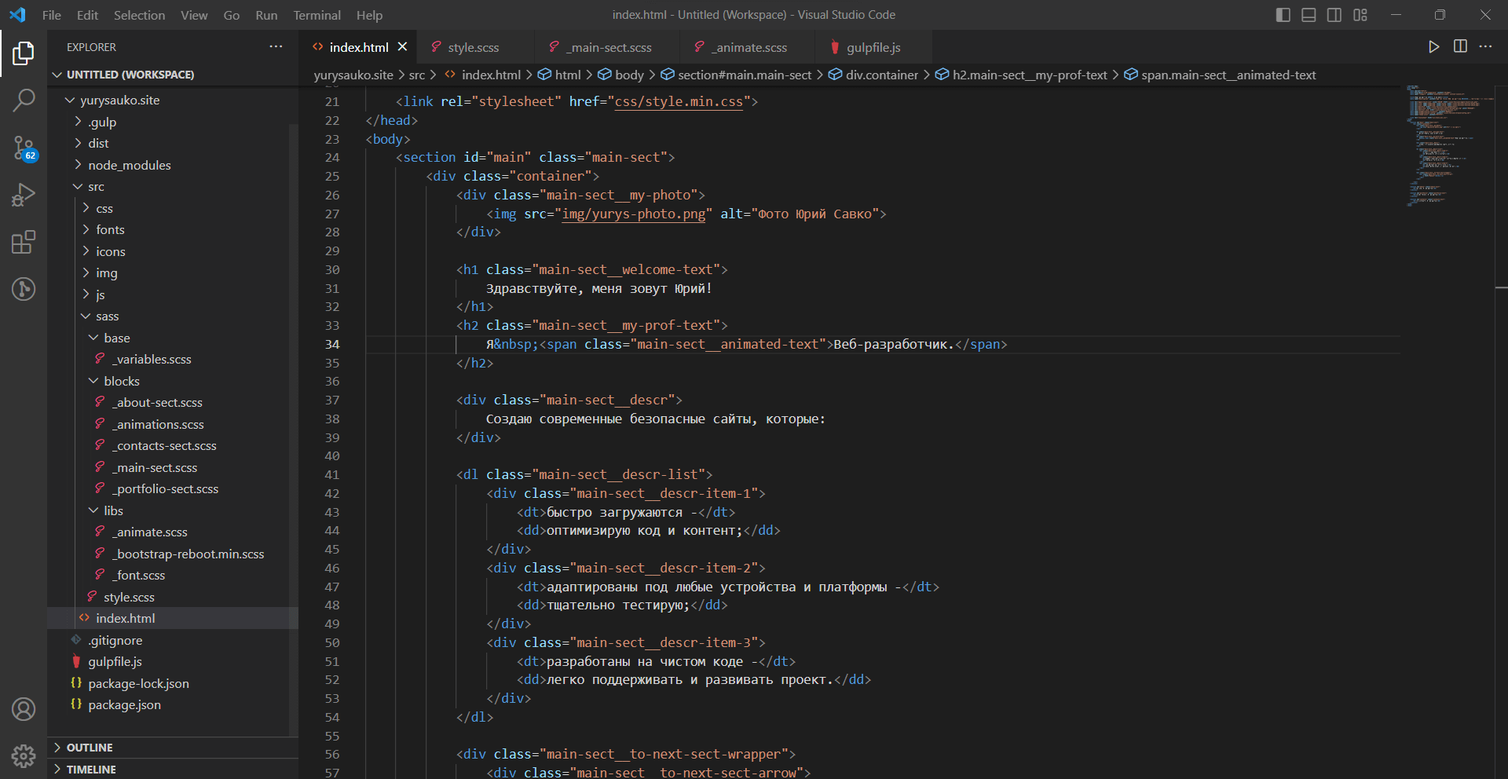
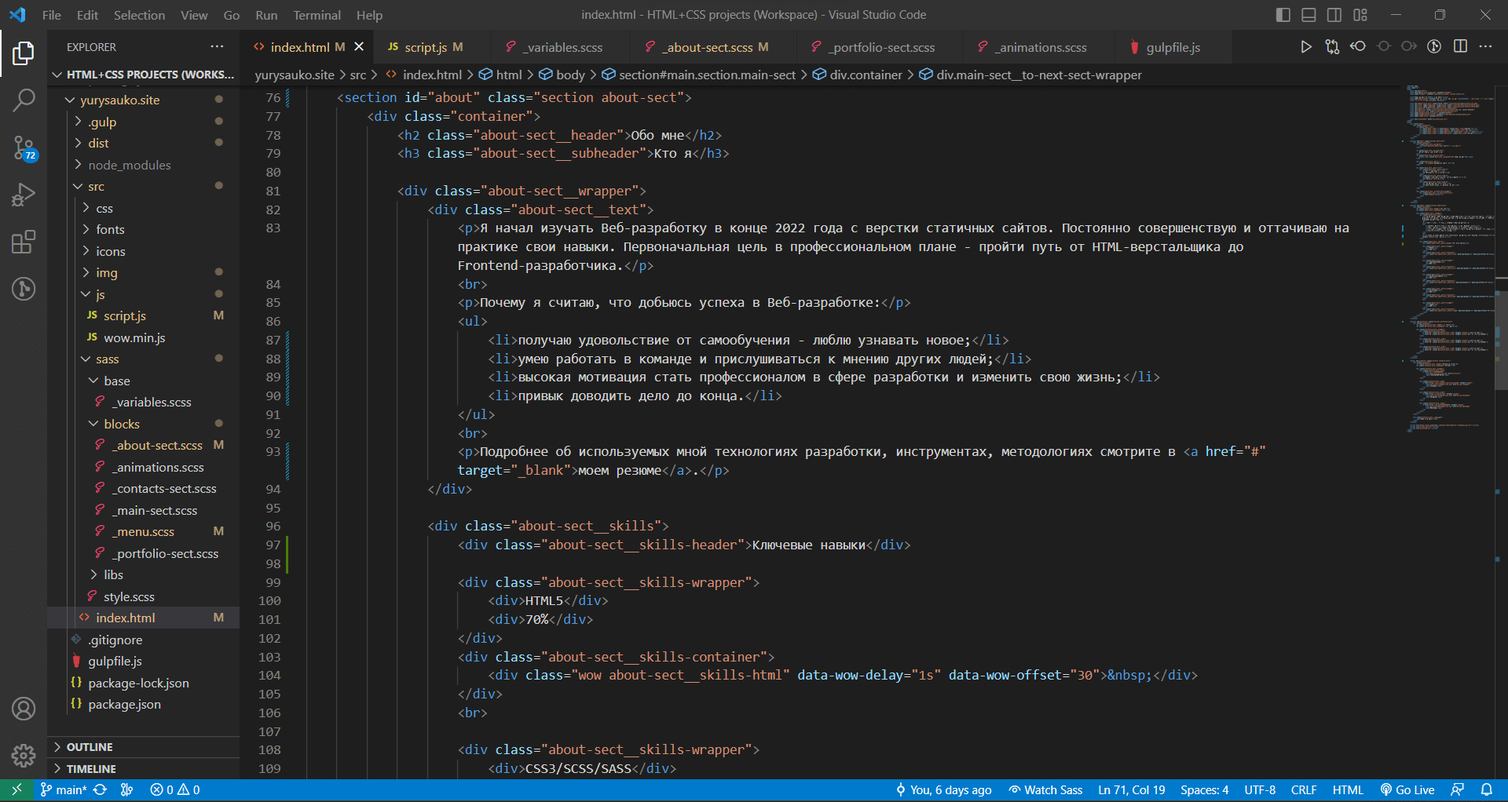
The desktop version is complited, some changes in styles, deleted jQuery, all scripts are made in JS

diff --git a/dist/css/style.min.css b/dist/css/style.min.css
@@ -8,4 +8,4 @@
  * Licensed under the Hippocratic License 2.1 - http://firstdonoharm.dev
  *
  * Copyright (c) 2022 Animate.css
- */@keyframes fadeInLeft{from{opacity:0;transform:translate3d(-100%,0,0)}to{opacity:1;transform:translate3d(0,0,0)}}.animate__fadeInLeft{animation-name:fadeInLeft}@keyframes backInUp{0%{transform:translateY(1200px) scale(.7);opacity:.7}80%{transform:translateY(0) scale(.7);opacity:.7}100%{transform:scale(1);opacity:1}}.animate__backInUp{animation-name:backInUp}@keyframes heartBeat{0%{transform:scale(1)}14%{transform:scale(1.3)}28%{transform:scale(1)}42%{transform:scale(1.3)}70%{transform:scale(1)}}.animate__heartBeat{animation-name:heartBeat;animation-duration:1.3s;animation-duration:calc(var(--animate-duration)*1.3);animation-timing-function:ease-in-out}*{font-family:"Liberation Mono",monospace}.container{max-width:1200px;margin:0 auto}.menu{display:none;position:fixed;top:0;z-index:2;width:100%;background-color:#f5fffa;border-bottom:2px solid #e4e4e4}.menu__list{display:flex;justify-content:space-around;margin-bottom:0;padding-left:0}.menu__item{list-style-type:none}.menu__link{text-decoration:none;color:#212121;font-size:20px;font-weight:400;line-height:40px;padding:8px 7px}.menu__link:hover{background-color:#e4e4e4;text-decoration:underline;transition:all .3s}.main-sect{position:relative;min-height:100vh;padding:50px 0 100px 0;background:linear-gradient(to bottom right,rgba(0,0,0,.8),rgba(0,0,0,.8)),url(../img/bg/main-bg.png) center center/cover no-repeat;text-align:center}.main-sect__my-photo{margin:0 auto;width:175px;height:175px}.main-sect__my-photo img{width:100%;height:100%;border-radius:50%;border:3px solid #f5fffa}.main-sect__welcome-text{margin-top:16px;margin-bottom:0;font-weight:400;font-size:24px;line-height:24px;color:#f5fffa}.main-sect__my-prof-text{display:flex;justify-content:center;margin-top:16px;margin-bottom:0;font-weight:700;font-size:48px;line-height:48px;color:#f5fffa}.main-sect__animated-text{color:#65b3ff;white-space:nowrap;overflow:hidden;border-right:2px solid #f5fffa;width:16ch}.main-sect__descr{margin-top:16px;font-weight:400;font-size:24px;line-height:24px;color:#f5fffa}.main-sect__descr-list{display:inline-block;text-align:left;font-weight:700;font-size:16px;line-height:24px;color:#f5fffa}.main-sect__descr-list dt{margin-top:12px}.main-sect__descr-list dd{padding-left:24px;margin-bottom:0;color:#0290ff}.main-sect__to-next-sect-wrapper{position:absolute;bottom:25px;left:50%;transform:translateX(-50%);width:50px;height:50px;border:2px solid #f5fffa;border-radius:50%;display:flex;justify-content:center;align-items:center}.main-sect__to-next-sect-arrow{font-size:18px;line-height:18px;font-weight:400}.main-sect__to-next-sect-arrow a{color:#f5fffa;text-decoration:none;padding:8px}.about-sect{position:relative;min-height:550px;padding:139px 0 50px 0;background-color:#f5fffa}.about-sect__header{position:absolute;top:52px;left:50%;transform:translateX(-50%);margin-bottom:0;line-height:72px;font-size:72px;font-weight:700;color:#e4e4e4}.about-sect__subheader{position:absolute;top:72px;left:50%;transform:translateX(-50%);z-index:1;margin-bottom:0;line-height:36px;font-size:36px;font-weight:700;color:#212121}.about-sect__wrapper{display:flex;justify-content:center}.about-sect__text{flex-basis:50%;color:#212121;font-size:16px;line-height:24px}.about-sect__text p{text-indent:24px;margin-bottom:0}.about-sect__text ul{margin-bottom:0;padding-left:0;list-style-type:none}.about-sect__text ul li::before{content:"✔";color:#0290ff;padding-right:11px}.about-sect__text a{text-decoration:none;color:#0290ff}.about-sect__text a:hover{color:#212121;font-weight:700;transition:all .3s}.about-sect__skills{flex-basis:50%;padding:0 50px;color:#212121;font-size:16px;line-height:24px}.about-sect__skills-wrapper{display:flex;justify-content:space-between}.about-sect__skills-container{width:100%;background-color:#e4e4e4}.about-sect__skills-html{background-color:#0290ff;width:70%}.about-sect__skills-css{background-color:#0290ff;width:65%}.about-sect__skills-js{background-color:#0290ff;width:10%}.about-sect__skills-git{background-color:#0290ff;width:30%}.about-sect__skills-figma{background-color:#0290ff;width:30%}.portfolio-sect{position:relative;min-height:475px;padding:174px 0 50px 0;background-color:#f2f3f4}.portfolio-sect__header{position:absolute;top:52px;left:50%;transform:translateX(-50%);margin-bottom:0;line-height:72px;font-size:72px;font-weight:700;color:#e4e4e4}.portfolio-sect__subheader{position:absolute;top:78px;left:50%;transform:translateX(-50%);z-index:1;margin-bottom:0;line-height:36px;font-size:36px;font-weight:700;color:#212121}.portfolio-sect__wrapper{display:flex;justify-content:space-between}.portfolio-sect__link{display:none;text-decoration:none;padding:0 10px;font-size:16px;line-height:30px;font-weight:400;color:#212121;border:2px solid #212121;border-radius:10px;background-color:#f2f3f4}.portfolio-sect__link:nth-child(1){margin-bottom:15px}.portfolio-sect__link:nth-child(2){margin-top:15px}.portfolio-sect__link:hover{color:#f5fffa;border-color:#0290ff;background-color:#0290ff;transition:all .3s}.portfolio-sect__item{position:relative;width:375px;height:250px;display:flex;flex-direction:column;justify-content:center;align-items:center}.portfolio-sect__item:nth-child(1){background:linear-gradient(to bottom right,rgba(0,0,0,0),rgba(0,0,0,0)),url(../img/Uber-site.png) center center/cover no-repeat}.portfolio-sect__item:nth-child(1)::before{content:"Учебный проект Uber";display:block;position:absolute;top:-26px;font-size:16px;line-height:16px;font-weight:400;color:#212121;padding-bottom:10px}.portfolio-sect__item:nth-child(1):hover{background:linear-gradient(to bottom right,rgba(0,0,0,.7),rgba(0,0,0,.7)),url(../img/Uber-site.png) center center/cover no-repeat}.portfolio-sect__item:nth-child(1):hover .portfolio-sect__link{display:inline-block;transition:all .3s}.portfolio-sect__item:nth-child(2){background:linear-gradient(to bottom right,rgba(0,0,0,0),rgba(0,0,0,0)),url(../img/Pulse-site.png) center center/cover no-repeat}.portfolio-sect__item:nth-child(2)::before{content:"Учебный проект Pulse";display:block;position:absolute;top:-26px;font-size:16px;line-height:16px;font-weight:400;color:#212121;padding-bottom:10px}.portfolio-sect__item:nth-child(2):hover{background:linear-gradient(to bottom right,rgba(0,0,0,.7),rgba(0,0,0,.7)),url(../img/Pulse-site.png) center center/cover no-repeat}.portfolio-sect__item:nth-child(2):hover .portfolio-sect__link{display:inline-block;transition:all .3s}.portfolio-sect__item:nth-child(3){background:linear-gradient(to bottom right,#e4e4e4,#e4e4e4)}.portfolio-sect__item:nth-child(3)::before{content:"В разработке...";display:block;position:absolute;top:-26px;font-size:16px;line-height:16px;font-weight:400;color:#212121;padding-bottom:10px}.portfolio-sect__item:nth-child(3):hover{background:linear-gradient(to bottom right,rgba(0,0,0,.7),rgba(0,0,0,.7))}.portfolio-sect__item:nth-child(3):hover .portfolio-sect__link{display:inline-block;transition:all .3s}.contacts-sect{position:relative;padding:137px 0 0 0;background-color:#f5fffa}.contacts-sect__header{position:absolute;top:15px;left:50%;transform:translateX(-50%);margin-bottom:0;line-height:72px;font-size:72px;font-weight:700;color:#e4e4e4}.contacts-sect__subheader{position:absolute;top:53px;left:50%;transform:translateX(-50%);z-index:1;margin-bottom:0;line-height:36px;font-size:36px;font-weight:700;color:#212121}.contacts-sect__wrapper{display:flex;flex-wrap:wrap;justify-content:center;align-items:center}.contacts-sect__item{flex-basis:50%}.contacts-sect__item a{display:inline-block;text-decoration:none}.contacts-sect__item a img{width:30px;height:30px;float:left}.contacts-sect__item a span{font-size:16px;line-height:30px;font-weight:400;color:#212121;padding-left:5px}.contacts-sect__item a span:hover{color:#0290ff;transition:all .3s}.contacts-sect__item:nth-child(1){order:1;text-align:right;margin-bottom:30px;padding-right:25px}.contacts-sect__item:nth-child(2){order:3;text-align:right;padding-right:25px}.contacts-sect__item:nth-child(3){order:2;margin-bottom:30px;padding-left:25px}.contacts-sect__item:nth-child(4){order:4;padding-left:25px}.contacts-sect__copyright{width:100%;margin-top:30px;background-color:#212121;text-align:center}.contacts-sect__copyright span{font-size:16px;line-height:50px;font-weight:400;color:#f5fffa;position:relative}.contacts-sect__copyright span::before{content:"©";font-size:20px;position:absolute;left:-20px}@keyframes typed-text{from{width:0}}@keyframes cursor{from{border-color:rgba(0,0,0,0)}50%{border-color:#f5fffa}to{border-color:rgba(0,0,0,0)}}@keyframes to-next-sect{from{opacity:0}to{opacity:1}}@keyframes arrow{from{opacity:.1;transform:scaleX(2) translateY(-50%)}10%{opacity:.3;transform:scaleX(1.9) translateY(-40%)}20%{opacity:.5;transform:scaleX(1.8) translateY(-30%)}30%{opacity:.7;transform:scaleX(1.7) translateY(-20%)}40%{opacity:.9;transform:scaleX(1.6) translateY(-10%)}50%{opacity:1;transform:scaleX(1.5) translateY(0)}60%{opacity:.85;transform:scaleX(1.4) translateY(10%)}70%{opacity:.7;transform:scaleX(1.3) translateY(20%)}80%{opacity:.55;transform:scaleX(1.2) translateY(30%)}90%{opacity:.4;transform:scaleX(1.1) translateY(40%)}to{opacity:.25;transform:scaleX(1) translateY(50%)}}@keyframes value-html{from{width:0;opacity:.3}to{width:70%;opacity:1}}@keyframes value-css{from{width:0;opacity:.3}to{width:65%;opacity:1}}@keyframes value-js{from{width:0;opacity:.3}to{width:10%;opacity:1}}@keyframes value-git{from{width:0;opacity:.3}to{width:30%;opacity:1}}@keyframes value-figma{from{width:0;opacity:.3}to{width:30%;opacity:1}}.main-sect__animated-text{animation:cursor 1.1s step-end .2s 7 forwards,typed-text 2s .2s steps(16)}.main-sect__descr{animation:fadeInLeft 1s ease 2.25s backwards}.main-sect__descr-item-1{animation:backInUp 1s ease 3s backwards}.main-sect__descr-item-1 dd:hover{animation:heartBeat 1.5s}.main-sect__descr-item-2{animation:backInUp 1s ease 3.75s backwards}.main-sect__descr-item-2 dd:hover{animation:heartBeat 1.5s}.main-sect__descr-item-3{animation:backInUp 1s ease 4.5s backwards}.main-sect__descr-item-3 dd:hover{animation:heartBeat 1.5s}.main-sect__to-next-sect-wrapper{animation:to-next-sect 2s 5.5s backwards}.main-sect__to-next-sect-arrow{animation:arrow 1.1s ease infinite}.about-sect__skills-html{animation:value-html 2.5s ease-out backwards}.about-sect__skills-css{animation:value-css 2.5s ease-out backwards}.about-sect__skills-js{animation:value-js 2.5s ease-out backwards}.about-sect__skills-git{animation:value-git 2.5s ease-out backwards}.about-sect__skills-figma{animation:value-figma 2.5s ease-out backwards}
+ */@keyframes fadeInLeft{from{opacity:0;transform:translate3d(-100%,0,0)}to{opacity:1;transform:translate3d(0,0,0)}}.animate__fadeInLeft{animation-name:fadeInLeft}@keyframes backInUp{0%{transform:translateY(1200px) scale(.7);opacity:.7}80%{transform:translateY(0) scale(.7);opacity:.7}100%{transform:scale(1);opacity:1}}.animate__backInUp{animation-name:backInUp}@keyframes heartBeat{0%{transform:scale(1)}14%{transform:scale(1.3)}28%{transform:scale(1)}42%{transform:scale(1.3)}70%{transform:scale(1)}}.animate__heartBeat{animation-name:heartBeat;animation-duration:1.3s;animation-duration:calc(var(--animate-duration)*1.3);animation-timing-function:ease-in-out}*{font-family:"Liberation Mono",monospace}.container{max-width:1200px;margin:0 auto}.menu{position:fixed;top:0;z-index:2;width:100%;background-color:#f5fffa;border-bottom:2px solid #e4e4e4;opacity:1;visibility:visible;transition:opacity .5s linear,visibility .5s linear}.menu__list{display:flex;justify-content:space-around;margin-bottom:0;padding-left:0}.menu__item{list-style-type:none}.menu__link{text-decoration:none;color:#212121;font-size:20px;font-weight:400;line-height:40px;padding:8px 7px}.menu__link:hover,.menu__link_active{background:radial-gradient(circle,#f5fffa 0,#e4e4e4 100%);text-decoration:underline;transition:all .3s}.menu_hidden{opacity:0;visibility:hidden;transition:opacity .5s linear,visibility .5s linear}.main-sect{position:relative;min-height:100vh;padding:50px 0 100px 0;background:linear-gradient(to bottom right,rgba(0,0,0,.8),rgba(0,0,0,.8)),url(../img/bg/main-bg.png) center center/cover no-repeat;text-align:center}.main-sect__my-photo{margin:0 auto;width:175px;height:175px}.main-sect__my-photo img{width:100%;height:100%;border-radius:50%;border:3px solid #f5fffa}.main-sect__welcome-text{margin-top:16px;margin-bottom:0;font-weight:400;font-size:24px;line-height:24px;color:#f5fffa}.main-sect__my-prof-text{display:flex;justify-content:center;margin-top:16px;margin-bottom:0;font-weight:700;font-size:48px;line-height:48px;color:#f5fffa}.main-sect__animated-text{color:#65b3ff;white-space:nowrap;overflow:hidden;border-right:2px solid #f5fffa;width:16ch}.main-sect__descr{margin-top:16px;font-weight:400;font-size:24px;line-height:24px;color:#f5fffa}.main-sect__descr-list{display:inline-block;text-align:left;font-weight:700;font-size:16px;line-height:24px;color:#f5fffa}.main-sect__descr-list dt{margin-top:12px}.main-sect__descr-list dd{padding-left:24px;margin-bottom:0;color:#0290ff}.main-sect__to-next-sect-wrapper{position:absolute;bottom:25px;left:50%;transform:translateX(-50%);width:50px;height:50px;border:2px solid #f5fffa;border-radius:50%;display:flex;justify-content:center;align-items:center}.main-sect__to-next-sect-arrow{font-size:18px;line-height:18px;font-weight:400}.main-sect__to-next-sect-link{color:#f5fffa;text-decoration:none;padding:8px}.about-sect{position:relative;min-height:550px;padding:139px 0 50px 0;background-color:#f5fffa}.about-sect__header{position:absolute;top:52px;left:50%;transform:translateX(-50%);margin-bottom:0;line-height:72px;font-size:72px;font-weight:700;color:#e4e4e4}.about-sect__subheader{position:absolute;top:72px;left:50%;transform:translateX(-50%);z-index:1;margin-bottom:0;line-height:36px;font-size:36px;font-weight:700;color:#212121}.about-sect__wrapper{display:flex;justify-content:center}.about-sect__text{flex-basis:50%;color:#212121;font-size:16px;line-height:24px;font-weight:400}.about-sect__text p{text-indent:24px;margin-bottom:0}.about-sect__text ul{margin-bottom:0;padding-left:0;list-style-type:none}.about-sect__text ul li::before{content:"✔";color:#0290ff;padding-right:11px}.about-sect__text a{text-decoration:none;color:#0290ff}.about-sect__text a:hover{color:#212121;font-weight:700;transition:all .3s}.about-sect__skills{flex-basis:50%;padding:0 50px;color:#212121;font-size:16px;line-height:24px;font-weight:400}.about-sect__skills-header{text-align:center;font-size:20px;line-height:30px;font-weight:700}.about-sect__skills-wrapper{display:flex;justify-content:space-between}.about-sect__skills-container{width:100%;background-color:#e4e4e4}.about-sect__skills-html{background-color:#0290ff;width:70%}.about-sect__skills-css{background-color:#0290ff;width:65%}.about-sect__skills-js{background-color:#0290ff;width:10%}.about-sect__skills-git{background-color:#0290ff;width:30%}.about-sect__skills-figma{background-color:#0290ff;width:30%}.portfolio-sect{position:relative;min-height:475px;padding:174px 0 50px 0;background-color:#f2f3f4}.portfolio-sect__header{position:absolute;top:52px;left:50%;transform:translateX(-50%);margin-bottom:0;line-height:72px;font-size:72px;font-weight:700;color:#e4e4e4}.portfolio-sect__subheader{position:absolute;top:78px;left:50%;transform:translateX(-50%);z-index:1;margin-bottom:0;line-height:36px;font-size:36px;font-weight:700;color:#212121}.portfolio-sect__wrapper{display:flex;justify-content:space-between}.portfolio-sect__link{display:none;text-decoration:none;padding:0 10px;font-size:16px;line-height:30px;font-weight:400;color:#212121;border:2px solid #212121;border-radius:10px;background-color:#f2f3f4}.portfolio-sect__link:nth-child(1){margin-bottom:15px}.portfolio-sect__link:nth-child(2){margin-top:15px}.portfolio-sect__link:hover{color:#f5fffa;border-color:#0290ff;background-color:#0290ff;transition:all .3s}.portfolio-sect__item{position:relative;width:375px;height:250px;display:flex;flex-direction:column;justify-content:center;align-items:center}.portfolio-sect__item:nth-child(1){background:linear-gradient(to bottom right,rgba(0,0,0,0),rgba(0,0,0,0)),url(../img/Uber-site.png) center center/cover no-repeat}.portfolio-sect__item:nth-child(1)::before{content:"Учебный проект Uber";display:block;position:absolute;top:-26px;font-size:16px;line-height:16px;font-weight:400;color:#212121;padding-bottom:10px}.portfolio-sect__item:nth-child(1):hover{background:linear-gradient(to bottom right,rgba(0,0,0,.7),rgba(0,0,0,.7)),url(../img/Uber-site.png) center center/cover no-repeat}.portfolio-sect__item:nth-child(1):hover .portfolio-sect__link{display:inline-block;transition:all .3s}.portfolio-sect__item:nth-child(2){background:linear-gradient(to bottom right,rgba(0,0,0,0),rgba(0,0,0,0)),url(../img/Pulse-site.png) center center/cover no-repeat}.portfolio-sect__item:nth-child(2)::before{content:"Учебный проект Pulse";display:block;position:absolute;top:-26px;font-size:16px;line-height:16px;font-weight:400;color:#212121;padding-bottom:10px}.portfolio-sect__item:nth-child(2):hover{background:linear-gradient(to bottom right,rgba(0,0,0,.7),rgba(0,0,0,.7)),url(../img/Pulse-site.png) center center/cover no-repeat}.portfolio-sect__item:nth-child(2):hover .portfolio-sect__link{display:inline-block;transition:all .3s}.portfolio-sect__item:nth-child(3){background:linear-gradient(to bottom right,#e4e4e4,#e4e4e4)}.portfolio-sect__item:nth-child(3)::before{content:"В разработке...";display:block;position:absolute;top:-26px;font-size:16px;line-height:16px;font-weight:400;color:#212121;padding-bottom:10px}.portfolio-sect__item:nth-child(3):hover{background:linear-gradient(to bottom right,rgba(0,0,0,.7),rgba(0,0,0,.7))}.portfolio-sect__item:nth-child(3):hover .portfolio-sect__link{display:inline-block;transition:all .3s}.contacts-sect{position:relative;padding:137px 0 0 0;background-color:#f5fffa}.contacts-sect__header{position:absolute;top:15px;left:50%;transform:translateX(-50%);margin-bottom:0;line-height:72px;font-size:72px;font-weight:700;color:#e4e4e4}.contacts-sect__subheader{position:absolute;top:53px;left:50%;transform:translateX(-50%);z-index:1;margin-bottom:0;line-height:36px;font-size:36px;font-weight:700;color:#212121}.contacts-sect__wrapper{display:flex;flex-wrap:wrap;justify-content:center;align-items:center}.contacts-sect__item{flex-basis:50%}.contacts-sect__item a{display:inline-block;text-decoration:none}.contacts-sect__item a img{width:30px;height:30px;float:left}.contacts-sect__item a span{font-size:16px;line-height:30px;font-weight:400;color:#212121;padding-left:5px}.contacts-sect__item a span:hover{color:#0290ff;transition:all .3s}.contacts-sect__item:nth-child(1){order:1;text-align:right;margin-bottom:30px;padding-right:25px}.contacts-sect__item:nth-child(2){order:3;text-align:right;padding-right:25px}.contacts-sect__item:nth-child(3){order:2;margin-bottom:30px;padding-left:25px}.contacts-sect__item:nth-child(4){order:4;padding-left:25px}.contacts-sect__copyright{width:100%;margin-top:30px;background-color:#212121;text-align:center}.contacts-sect__copyright span{font-size:16px;line-height:50px;font-weight:400;color:#f5fffa;position:relative}.contacts-sect__copyright span::before{content:"©";font-size:20px;position:absolute;left:-20px}@keyframes typed-text{from{width:0}}@keyframes cursor{from{border-color:rgba(0,0,0,0)}50%{border-color:#f5fffa}to{border-color:rgba(0,0,0,0)}}@keyframes to-next-sect{from{opacity:0}to{opacity:1}}@keyframes arrow{from{opacity:.1;transform:scaleX(2) translateY(-50%)}10%{opacity:.3;transform:scaleX(1.9) translateY(-40%)}20%{opacity:.5;transform:scaleX(1.8) translateY(-30%)}30%{opacity:.7;transform:scaleX(1.7) translateY(-20%)}40%{opacity:.9;transform:scaleX(1.6) translateY(-10%)}50%{opacity:1;transform:scaleX(1.5) translateY(0)}60%{opacity:.85;transform:scaleX(1.4) translateY(10%)}70%{opacity:.7;transform:scaleX(1.3) translateY(20%)}80%{opacity:.55;transform:scaleX(1.2) translateY(30%)}90%{opacity:.4;transform:scaleX(1.1) translateY(40%)}to{opacity:.25;transform:scaleX(1) translateY(50%)}}@keyframes value-html{from{width:0;opacity:.3}to{width:70%;opacity:1}}@keyframes value-css{from{width:0;opacity:.3}to{width:65%;opacity:1}}@keyframes value-js{from{width:0;opacity:.3}to{width:10%;opacity:1}}@keyframes value-git{from{width:0;opacity:.3}to{width:30%;opacity:1}}@keyframes value-figma{from{width:0;opacity:.3}to{width:30%;opacity:1}}.main-sect__animated-text{animation:cursor 1.1s step-end .2s 7 forwards,typed-text 2s .2s steps(16)}.main-sect__descr{animation:fadeInLeft 1s ease 2.25s backwards}.main-sect__descr-item-1{animation:backInUp 1s ease 3s backwards}.main-sect__descr-item-1 dd:hover{animation:heartBeat 1.5s}.main-sect__descr-item-2{animation:backInUp 1s ease 3.75s backwards}.main-sect__descr-item-2 dd:hover{animation:heartBeat 1.5s}.main-sect__descr-item-3{animation:backInUp 1s ease 4.5s backwards}.main-sect__descr-item-3 dd:hover{animation:heartBeat 1.5s}.main-sect__to-next-sect-wrapper{animation:to-next-sect 2s 5.5s backwards}.main-sect__to-next-sect-arrow{animation:arrow 1.1s ease infinite}.about-sect__skills-html{animation:value-html 2.5s ease-out backwards}.about-sect__skills-css{animation:value-css 2.5s ease-out backwards}.about-sect__skills-js{animation:value-js 2.5s ease-out backwards}.about-sect__skills-git{animation:value-git 2.5s ease-out backwards}.about-sect__skills-figma{animation:value-figma 2.5s ease-out backwards}

diff --git a/dist/index.html b/dist/index.html
@@ -1,1 +1,1 @@
-<!DOCTYPE html><html lang="ru"><head><meta charset="UTF-8"><meta http-equiv="X-UA-Compatible" content="IE=edge"><meta name="viewport" content="width=device-width,initial-scale=1"><title>Веб-разработчик &#9672; Юрий Савко</title><meta name="description" content="Сайт портфолио ВЕБ разработчика &#128165; Профессионал с горящими глазами - разрабатываю сайты любой сложности, учту все Ваши пожелания &#128076;"><link rel="apple-touch-icon" sizes="60x60" href="/icons/favicons/apple-touch-icon.png"><link rel="icon" type="image/png" sizes="32x32" href="/icons/favicons/favicon-32x32.png"><link rel="icon" type="image/png" sizes="16x16" href="/icons/favicons/favicon-16x16.png"><link rel="manifest" href="/icons/favicons/site.webmanifest"><link rel="mask-icon" href="/icons/favicons/safari-pinned-tab.svg" color="#5bbad5"><link rel="shortcut icon" href="/icons/favicons/favicon.ico"><meta name="msapplication-TileColor" content="#da532c"><meta name="msapplication-config" content="/icons/favicons/browserconfig.xml"><meta name="theme-color" content="#ffffff"><link rel="stylesheet" href="css/style.min.css"></head><body><nav class="menu"><div class="container"><ul class="menu__list"><li class="menu__item"><a href="#main" class="menu__link">Главная</a></li><li class="menu__item"><a href="#about" class="menu__link">Обо мне</a></li><li class="menu__item"><a href="#portfolio" class="menu__link">Портфолио</a></li><li class="menu__item"><a href="#contacts" class="menu__link">Контакты</a></li></ul></div></nav><section id="main" class="main-sect"><div class="container"><div class="main-sect__my-photo"><img src="img/yurys-photo.png" alt="Фото Юрий Савко"></div><h1 class="main-sect__welcome-text">Здравствуйте, меня зовут Юрий!</h1><h2 class="main-sect__my-prof-text">Я&nbsp;<span class="main-sect__animated-text">Веб-разработчик.</span></h2><div class="main-sect__descr">Создаю современные безопасные сайты, которые:</div><dl class="main-sect__descr-list"><div class="main-sect__descr-item-1"><dt>быстро загружаются -</dt><dd>оптимизирую код и контент;</dd></div><div class="main-sect__descr-item-2"><dt>адаптированы под любые устройства и платформы -</dt><dd>тщательно тестирую;</dd></div><div class="main-sect__descr-item-3"><dt>разработаны на чистом коде -</dt><dd>легко поддерживать и развивать проект.</dd></div></dl><div class="main-sect__to-next-sect-wrapper"><div class="main-sect__to-next-sect-arrow"><a href="#about">&xvee;</a></div></div></div></section><section id="about" class="about-sect"><div class="container"><h2 class="about-sect__header">Обо мне</h2><h3 class="about-sect__subheader">Кто я</h3><div class="about-sect__wrapper"><div class="about-sect__text"><p>Я начал изучать Веб-разработку в конце 2022 года с верстки статичных сайтов. Постоянно совершенствую и оттачиваю на практике свои навыки. Первоначальная цель в профессиональном плане - пройти путь от HTML-верстальщика до Frontend-разработчика.</p><br><p>Почему я считаю, что добьюсь успеха в Веб-разработке:</p><ul><li>получаю удовольствие от самообучения - люблю узнавать новое</li><li>умею работать в команде и прислушиваться к мнению других людей</li><li>высокая мотивация стать профессионалом в сфере разработки и изменить свою жизнь</li><li>привык доводить дело до конца</li></ul><br><p>Посмотрите <a href="#" target="_blank">мое резюме</a> и узнайте обо мне больше!</p></div><div class="about-sect__skills"><div class="about-sect__skills-wrapper"><div>HTML5</div><div>70%</div></div><div class="about-sect__skills-container"><div class="wow about-sect__skills-html" data-wow-delay="1s" data-wow-offset="30">&nbsp;</div></div><br><div class="about-sect__skills-wrapper"><div>CSS3/SCSS/SASS</div><div>65%</div></div><div class="about-sect__skills-container"><div class="wow about-sect__skills-css" data-wow-delay="1s" data-wow-offset="30">&nbsp;</div></div><br><div class="about-sect__skills-wrapper"><div>JavaScript/jQuery</div><div>10%</div></div><div class="about-sect__skills-container"><div class="wow about-sect__skills-js" data-wow-delay="1s" data-wow-offset="30">&nbsp;</div></div><br><div class="about-sect__skills-wrapper"><div>Git/GitHub</div><div>30%</div></div><div class="about-sect__skills-container"><div class="wow about-sect__skills-git" data-wow-delay="1s" data-wow-offset="30">&nbsp;</div></div><br><div class="about-sect__skills-wrapper"><div>Figma</div><div>30%</div></div><div class="about-sect__skills-container"><div class="wow about-sect__skills-figma" data-wow-delay="1s" data-wow-offset="30">&nbsp;</div></div></div></div></div></section><section id="portfolio" class="portfolio-sect"><div class="container"><h2 class="portfolio-sect__header">Портфолио</h2><h3 class="portfolio-sect__subheader">Мои работы</h3><div class="portfolio-sect__wrapper"><div class="portfolio-sect__item"><a href="##" class="portfolio-sect__link" target="_blank">Перейти на сайт</a> <a href="##" class="portfolio-sect__link" target="_blank">Смотреть код на GitHub</a></div><div class="portfolio-sect__item"><a href="##" class="portfolio-sect__link" target="_blank">Перейти на сайт</a> <a href="##" class="portfolio-sect__link" target="_blank">Смотреть код на GitHub</a></div><div class="portfolio-sect__item"><a href="##" class="portfolio-sect__link" target="_blank">Перейти на сайт</a> <a href="##" class="portfolio-sect__link" target="_blank">Смотреть код на GitHub</a></div></div></div></section><footer id="contacts" class="contacts-sect"><div class="container"><h2 class="contacts-sect__header">Всегда на связи</h2><h3 class="contacts-sect__subheader">Контакты</h3><div class="contacts-sect__wrapper"><div class="contacts-sect__item"><a href="tel:+375299568636"><img src="icons/A1-icon.svg" alt="Иконка A1"> <span>+375(29)956-86-36</span></a></div><div class="contacts-sect__item"><a href="https://www.linkedin.com/in/yurysauko" target="_blank"><img src="icons/LinkedIn-icon.svg" alt="Иконка LinkedIn"> <span>LinkedIn</span></a></div><div class="contacts-sect__item"><a href="https://t.me/YurysSs" target="_blank"><img src="icons/Telegram-icon.svg" alt="Иконка Telegram"> <span>Telegram</span></a></div><div class="contacts-sect__item"><a href="https://wa.me/375299568636" target="_blank"><img src="icons/WhatsApp-icon.svg" alt="Иконка WhatsApp"> <span>WhatsApp</span></a></div></div></div><div class="contacts-sect__copyright"><span>2023 Юрий Савко</span></div></footer><script src="https://ajax.googleapis.com/ajax/libs/jquery/3.7.0/jquery.min.js"></script><script src="js/wow.min.js"></script><script src="js/script.js"></script></body></html>
+<!DOCTYPE html><html lang="ru"><head><meta charset="UTF-8"><meta http-equiv="X-UA-Compatible" content="IE=edge"><meta name="viewport" content="width=device-width,initial-scale=1"><title>Веб-разработчик &#9672; Юрий Савко</title><meta name="description" content="Сайт портфолио ВЕБ разработчика &#128165; Профессионал с горящими глазами - разрабатываю сайты любой сложности, учту все Ваши пожелания &#128076;"><link rel="apple-touch-icon" sizes="60x60" href="/icons/favicons/apple-touch-icon.png"><link rel="icon" type="image/png" sizes="32x32" href="/icons/favicons/favicon-32x32.png"><link rel="icon" type="image/png" sizes="16x16" href="/icons/favicons/favicon-16x16.png"><link rel="manifest" href="/icons/favicons/site.webmanifest"><link rel="mask-icon" href="/icons/favicons/safari-pinned-tab.svg" color="#5bbad5"><link rel="shortcut icon" href="/icons/favicons/favicon.ico"><meta name="msapplication-TileColor" content="#da532c"><meta name="msapplication-config" content="/icons/favicons/browserconfig.xml"><meta name="theme-color" content="#ffffff"><link rel="stylesheet" href="css/style.min.css"></head><body><nav class="menu menu_hidden"><div class="container"><ul class="menu__list"><li class="menu__item"><a href="#main" class="menu__link">Главная</a></li><li class="menu__item"><a href="#about" class="menu__link">Обо мне</a></li><li class="menu__item"><a href="#portfolio" class="menu__link">Портфолио</a></li><li class="menu__item"><a href="#contacts" class="menu__link">Контакты</a></li></ul></div></nav><section id="main" class="section main-sect"><div class="container"><div class="main-sect__my-photo"><img src="img/yurys-photo.png" alt="Фото Юрий Савко"></div><h1 class="main-sect__welcome-text">Здравствуйте, меня зовут Юрий!</h1><h2 class="main-sect__my-prof-text">Я&nbsp;<span class="main-sect__animated-text">Веб-разработчик.</span></h2><div class="main-sect__descr">Создаю современные безопасные сайты, которые:</div><dl class="main-sect__descr-list"><div class="main-sect__descr-item-1"><dt>быстро загружаются -</dt><dd>оптимизирую код и контент;</dd></div><div class="main-sect__descr-item-2"><dt>адаптированы под любые устройства и платформы -</dt><dd>тщательно тестирую;</dd></div><div class="main-sect__descr-item-3"><dt>разработаны на чистом коде -</dt><dd>легко поддерживать и развивать проект.</dd></div></dl><div class="main-sect__to-next-sect-wrapper"><div class="main-sect__to-next-sect-arrow"><a href="#about" class="main-sect__to-next-sect-link">&xvee;</a></div></div></div></section><section id="about" class="section about-sect"><div class="container"><h2 class="about-sect__header">Обо мне</h2><h3 class="about-sect__subheader">Кто я</h3><div class="about-sect__wrapper"><div class="about-sect__text"><p>Я начал изучать Веб-разработку в конце 2022 года с верстки статичных сайтов. Постоянно совершенствую и оттачиваю на практике свои навыки. Первоначальная цель в профессиональном плане - пройти путь от HTML-верстальщика до Frontend-разработчика.</p><br><p>Почему я считаю, что добьюсь успеха в Веб-разработке:</p><ul><li>получаю удовольствие от самообучения - люблю узнавать новое;</li><li>умею работать в команде и прислушиваться к мнению других людей;</li><li>высокая мотивация стать профессионалом в сфере разработки и изменить свою жизнь;</li><li>привык доводить дело до конца.</li></ul><br><p>Подробнее об используемых мной технологиях разработки, инструментах, методологиях смотрите в <a href="#" target="_blank">моем резюме</a>.</p></div><div class="about-sect__skills"><div class="about-sect__skills-header">Ключевые навыки</div><div class="about-sect__skills-wrapper"><div>HTML5</div><div>70%</div></div><div class="about-sect__skills-container"><div class="wow about-sect__skills-html" data-wow-delay="1s" data-wow-offset="30">&nbsp;</div></div><br><div class="about-sect__skills-wrapper"><div>CSS3/SCSS/SASS</div><div>65%</div></div><div class="about-sect__skills-container"><div class="wow about-sect__skills-css" data-wow-delay="1s" data-wow-offset="30">&nbsp;</div></div><br><div class="about-sect__skills-wrapper"><div>JavaScript/jQuery</div><div>10%</div></div><div class="about-sect__skills-container"><div class="wow about-sect__skills-js" data-wow-delay="1s" data-wow-offset="30">&nbsp;</div></div><br><div class="about-sect__skills-wrapper"><div>Git/GitHub</div><div>30%</div></div><div class="about-sect__skills-container"><div class="wow about-sect__skills-git" data-wow-delay="1s" data-wow-offset="30">&nbsp;</div></div><br><div class="about-sect__skills-wrapper"><div>Figma</div><div>30%</div></div><div class="about-sect__skills-container"><div class="wow about-sect__skills-figma" data-wow-delay="1s" data-wow-offset="30">&nbsp;</div></div></div></div></div></section><section id="portfolio" class="section portfolio-sect"><div class="container"><h2 class="portfolio-sect__header">Портфолио</h2><h3 class="portfolio-sect__subheader">Мои работы</h3><div class="portfolio-sect__wrapper"><div class="portfolio-sect__item"><a href="##" class="portfolio-sect__link" target="_blank">Перейти на сайт</a> <a href="##" class="portfolio-sect__link" target="_blank">Смотреть код на GitHub</a></div><div class="portfolio-sect__item"><a href="##" class="portfolio-sect__link" target="_blank">Перейти на сайт</a> <a href="##" class="portfolio-sect__link" target="_blank">Смотреть код на GitHub</a></div><div class="portfolio-sect__item"><a href="##" class="portfolio-sect__link" target="_blank">Перейти на сайт</a> <a href="##" class="portfolio-sect__link" target="_blank">Смотреть код на GitHub</a></div></div></div></section><footer id="contacts" class="section contacts-sect"><div class="container"><h2 class="contacts-sect__header">Всегда на связи</h2><h3 class="contacts-sect__subheader">Контакты</h3><div class="contacts-sect__wrapper"><div class="contacts-sect__item"><a href="tel:+375299568636"><img src="icons/A1-icon.svg" alt="Иконка A1"> <span>+375(29)956-86-36</span></a></div><div class="contacts-sect__item"><a href="https://www.linkedin.com/in/yurysauko" target="_blank"><img src="icons/LinkedIn-icon.svg" alt="Иконка LinkedIn"> <span>LinkedIn</span></a></div><div class="contacts-sect__item"><a href="https://t.me/YurysSs" target="_blank"><img src="icons/Telegram-icon.svg" alt="Иконка Telegram"> <span>Telegram</span></a></div><div class="contacts-sect__item"><a href="https://wa.me/375299568636" target="_blank"><img src="icons/WhatsApp-icon.svg" alt="Иконка WhatsApp"> <span>WhatsApp</span></a></div></div></div><div class="contacts-sect__copyright"><span>2023 Юрий Савко</span></div></footer><script src="js/wow.min.js"></script><script src="js/script.js"></script></body></html>

diff --git a/src/index.html b/src/index.html
@@ -21,7 +21,7 @@
     <link rel="stylesheet" href="css/style.min.css">
 </head>
 <body>
-    <nav class="menu">
+    <nav class="menu menu_hidden">
         <div class="container">
             <ul class="menu__list">
                 <li class="menu__item"><a href="#main" class="menu__link">Главная</a></li>
@@ -32,7 +32,7 @@
         </div>
     </nav>
 
-    <section id="main" class="main-sect">
+    <section id="main" class="section main-sect">
         <div class="container">
             <div class="main-sect__my-photo">
                 <img src="img/yurys-photo.png" alt="Фото Юрий Савко">
@@ -66,14 +66,14 @@
 
             <div class="main-sect__to-next-sect-wrapper">
                 <div class="main-sect__to-next-sect-arrow">
-                    <a href="#about">&xvee;</a>
+                    <a href="#about" class="main-sect__to-next-sect-link">&xvee;</a>
                 </div>
             </div>
 
         </div>
     </section>
 
-    <section id="about" class="about-sect">
+    <section id="about" class="section about-sect">
         <div class="container">
             <h2 class="about-sect__header">Обо мне</h2>
             <h3 class="about-sect__subheader">Кто я</h3>
@@ -84,16 +84,18 @@
                     <br>
                     <p>Почему я считаю, что добьюсь успеха в Веб-разработке:</p>
                     <ul>
-                        <li>получаю удовольствие от самообучения - люблю узнавать новое</li>
-                        <li>умею работать в команде и прислушиваться к мнению других людей</li>
-                        <li>высокая мотивация стать профессионалом в сфере разработки и изменить свою жизнь</li>
-                        <li>привык доводить дело до конца</li>
+                        <li>получаю удовольствие от самообучения - люблю узнавать новое;</li>
+                        <li>умею работать в команде и прислушиваться к мнению других людей;</li>
+                        <li>высокая мотивация стать профессионалом в сфере разработки и изменить свою жизнь;</li>
+                        <li>привык доводить дело до конца.</li>
                     </ul>
                     <br>
-                    <p>Посмотрите <a href="#" target="_blank">мое резюме</a> и узнайте обо мне больше!</p>
+                    <p>Подробнее об используемых мной технологиях разработки, инструментах, методологиях смотрите в <a href="#" target="_blank">моем резюме</a>.</p>
                 </div>
         
                 <div class="about-sect__skills">
+                    <div class="about-sect__skills-header">Ключевые навыки</div>
+
                     <div class="about-sect__skills-wrapper">
                         <div>HTML5</div>
                         <div>70%</div>
@@ -142,7 +144,7 @@
         </div>
     </section>
 
-    <section id="portfolio" class="portfolio-sect">
+    <section id="portfolio" class="section portfolio-sect">
         <div class="container">
             <h2 class="portfolio-sect__header">Портфолио</h2>
             <h3 class="portfolio-sect__subheader">Мои работы</h3>
@@ -167,7 +169,7 @@
         </div>
     </section>
 
-    <footer id="contacts" class="contacts-sect">
+    <footer id="contacts" class="section contacts-sect">
         <div class="container">
             <h2 class="contacts-sect__header">Всегда на связи</h2>
             <h3 class="contacts-sect__subheader">Контакты</h3>
@@ -208,7 +210,6 @@
         </div>
     </footer>
 
-    <script src="https://ajax.googleapis.com/ajax/libs/jquery/3.7.0/jquery.min.js"></script>
     <script src="js/wow.min.js"></script>
     <script src="js/script.js"></script>
 </body>

diff --git a/dist/js/script.js b/dist/js/script.js
@@ -1,17 +1,51 @@
 // Initialization WOW.js
 new WOW().init();
 
-// jQuery
-$(document).ready(function(){
+// Menu hidden-visible
+window.addEventListener("scroll", function () {
+    document.querySelector(".menu").classList.toggle("menu_hidden", window.scrollY < 130);
+});
 
-    // Menu hidden-visible
-    $(window).scroll(function() {
-        if ($(this).scrollTop() > 300) {
-            $('.menu').fadeIn('slow');
-        } else {
-            $('.menu').fadeOut('slow');
+//Menu item of the active section & smooth scroll
+const getId = (link) => link.getAttribute('href').replace('#', '');
+
+const observer = new IntersectionObserver((entries) => {
+    entries.forEach((entry) => {
+        if (entry.isIntersecting) {
+            document.querySelectorAll('.menu__link').forEach((link) => {
+                link.classList.toggle(
+                    'menu__link_active',
+                    getId(link) === entry.target.id
+                );
+            });
         }
     });
+}, {
+    threshold: 0.9,
+});
 
-// End of $(document).ready(function(){
+document.querySelectorAll('.section').forEach(
+    (section) => observer.observe(section),
+);
+
+document.querySelector('.menu__list').addEventListener('click', (event) => {
+    if (event.target.classList.contains('menu__link')) {
+        event.preventDefault();
+
+        window.scrollTo({
+            top: document.getElementById(getId(event.target)).offsetTop,
+            behavior: "smooth",
+        });
+    }
+});
+
+document.querySelector('.main-sect__to-next-sect-arrow').addEventListener('click', (event) => {
+    if (event.target.classList.contains('main-sect__to-next-sect-link')) {
+        event.preventDefault();
+
+        window.scrollTo({
+            top: document.getElementById(getId(event.target)).offsetTop,
+            behavior: "smooth",
+        });
+    }
 });

diff --git a/src/js/script.js b/src/js/script.js
@@ -1,17 +1,51 @@
 // Initialization WOW.js
 new WOW().init();
 
-// jQuery
-$(document).ready(function(){
+// Menu hidden-visible
+window.addEventListener("scroll", function () {
+    document.querySelector(".menu").classList.toggle("menu_hidden", window.scrollY < 130);
+});
 
-    // Menu hidden-visible
-    $(window).scroll(function() {
-        if ($(this).scrollTop() > 300) {
-            $('.menu').fadeIn('slow');
-        } else {
-            $('.menu').fadeOut('slow');
+//Menu item of the active section & smooth scroll
+const getId = (link) => link.getAttribute('href').replace('#', '');
+
+const observer = new IntersectionObserver((entries) => {
+    entries.forEach((entry) => {
+        if (entry.isIntersecting) {
+            document.querySelectorAll('.menu__link').forEach((link) => {
+                link.classList.toggle(
+                    'menu__link_active',
+                    getId(link) === entry.target.id
+                );
+            });
         }
     });
+}, {
+    threshold: 0.9,
+});
 
-// End of $(document).ready(function(){
+document.querySelectorAll('.section').forEach(
+    (section) => observer.observe(section),
+);
+
+document.querySelector('.menu__list').addEventListener('click', (event) => {
+    if (event.target.classList.contains('menu__link')) {
+        event.preventDefault();
+
+        window.scrollTo({
+            top: document.getElementById(getId(event.target)).offsetTop,
+            behavior: "smooth",
+        });
+    }
+});
+
+document.querySelector('.main-sect__to-next-sect-arrow').addEventListener('click', (event) => {
+    if (event.target.classList.contains('main-sect__to-next-sect-link')) {
+        event.preventDefault();
+
+        window.scrollTo({
+            top: document.getElementById(getId(event.target)).offsetTop,
+            behavior: "smooth",
+        });
+    }
 });

diff --git a/src/sass/blocks/_menu.scss b/src/sass/blocks/_menu.scss
@@ -1,11 +1,13 @@
 .menu {
-    display: none;
     position: fixed;
     top: 0;
     z-index: 2;
     width: 100%;
     background-color: $light-color;
     border-bottom: 2px solid $header-color;
+    opacity: 1;
+    visibility: visible;
+    transition: opacity 0.5s linear, visibility 0.5s linear;
     &__list {
         display: flex;
         justify-content: space-around;
@@ -22,10 +24,16 @@
             font-weight: 400;
             line-height: 40px;
             padding: 8px 7px;
+            &_active,
             &:hover {
-                background-color: $header-color;
+                background: radial-gradient(circle, rgba(245,255,250,1) 0%, rgba(228,228,228,1) 100%);
                 text-decoration: underline;
                 transition: all 0.3s;
             }
+    }
+    &_hidden {
+        opacity: 0;
+        visibility: hidden;
+        transition: opacity 0.5s linear, visibility 0.5s linear;
     }
 }

diff --git a/src/sass/blocks/_about-sect.scss b/src/sass/blocks/_about-sect.scss
@@ -35,6 +35,7 @@
         color: $dark-color;
         font-size: 16px;
         line-height: 24px;
+        font-weight: 400;
         p {
             text-indent: 24px;
             margin-bottom: 0;
@@ -65,6 +66,13 @@
         color: $dark-color;
         font-size: 16px;
         line-height: 24px;
+        font-weight: 400;
+        &-header {
+            text-align: center;
+            font-size: 20px;
+            line-height: 30px;
+            font-weight: 700;
+        }
         &-wrapper {
             display: flex;
             justify-content: space-between;

diff --git a/src/sass/blocks/_main-sect.scss b/src/sass/blocks/_main-sect.scss
@@ -81,10 +81,10 @@
         font-size: 18px;
         line-height: 18px;
         font-weight: 400;
-        a {
-            color: $light-color;
-            text-decoration: none;
-            padding: 8px;
-        }
+    }
+    &__to-next-sect-link {
+        color: $light-color;
+        text-decoration: none;
+        padding: 8px;
     }
 }
